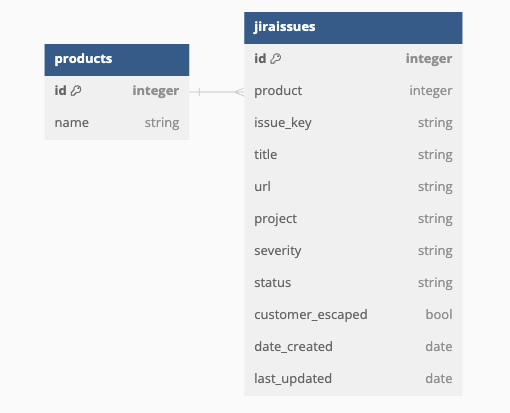
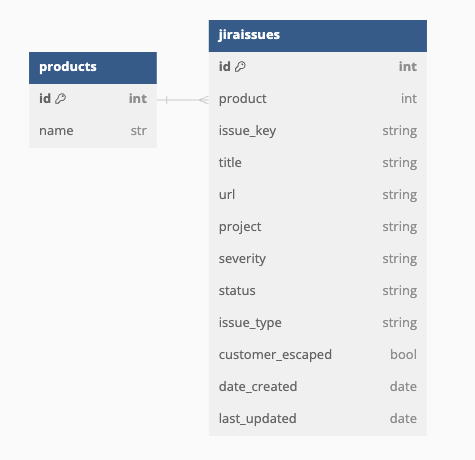
Add issue_type column to db and don't force only bugs to be added to db (#78)

diff --git a/qe_metrics/utils/issue_utils.py b/qe_metrics/utils/issue_utils.py
@@ -60,6 +60,7 @@ def update_existing_issue(existing_issue: JiraIssuesEntity, new_issue_data: Issu
         ("title", new_issue_data.fields.summary.strip()),
         ("severity", severity),
         ("status", new_issue_data.fields.status.name),
+        ("issue_type", new_issue_data.fields.issuetype.name.lower()),
         ("customer_escaped", new_issue_data.is_customer_escaped),
         ("last_updated", format_issue_date(new_issue_data.fields.updated)),
     ]
@@ -90,7 +91,6 @@ def create_update_issues(
     Returns:
         List["JiraIssuesEntity"]: A list of JiraIssuesEntity objects
     """
-    issues = [_issue for _issue in issues if _issue.fields.issuetype.name.lower() == "bug"]
     for issue in issues:
         if existing_issue := JiraIssuesEntity.get(issue_key=issue.key, product=product):
             update_existing_issue(existing_issue=existing_issue, new_issue_data=issue, severity=severity)
@@ -103,6 +103,7 @@ def create_update_issues(
                 project=issue.fields.project.key,
                 severity=severity,
                 status=issue.fields.status.name,
+                issue_type=issue.fields.issuetype.name.lower(),
                 customer_escaped=issue.is_customer_escaped,
                 date_created=format_issue_date(issue.fields.created),
                 last_updated=format_issue_date(issue.fields.updated),

diff --git a/tests/unittests/utils/test_issue_utils.py b/tests/unittests/utils/test_issue_utils.py
@@ -28,6 +28,7 @@ from qe_metrics.utils.issue_utils import (
                     "project": "TEST",
                     "severity": "blocker",
                     "status": "To Do",
+                    "issue_type": "bug",
                     "customer_escaped": True,
                     "date_created": "2024-12-29",
                     "last_updated": "2024-12-30",
@@ -79,6 +80,7 @@ def test_database_update_existing_issue(product, raw_jira_issues, jira_issues):
                     "project": "TEST",
                     "severity": "blocker",
                     "status": "In Progress",
+                    "issue_type": "bug",
                     "customer_escaped": False,
                     "date_created": "2024-12-30",
                     "last_updated": "2024-12-31",
@@ -90,6 +92,7 @@ def test_database_update_existing_issue(product, raw_jira_issues, jira_issues):
                     "project": "TEST",
                     "severity": "blocker",
                     "status": "In Progress",
+                    "issue_type": "bug",
                     "customer_escaped": False,
                     "date_created": "2024-12-30",
                     "last_updated": "2024-12-31",

diff --git a/tests/unittests/libs/test_database_mapping.py b/tests/unittests/libs/test_database_mapping.py
@@ -15,6 +15,7 @@ from qe_metrics.libs.database_mapping import JiraIssuesEntity, ProductsEntity
                     "project": "TEST",
                     "severity": "blocker",
                     "status": "Open",
+                    "issue_type": "bug",
                     "customer_escaped": False,
                     "date_created": "2024-01-01",
                     "last_updated": "2024-01-01",

diff --git a/qe_metrics/libs/database_mapping.py b/qe_metrics/libs/database_mapping.py
@@ -20,6 +20,7 @@ class JiraIssuesEntity(DB_OBJECT.Entity):
     project = orm.Required(str)
     severity = orm.Required(str)
     status = orm.Required(str)
+    issue_type = orm.Required(str)
     customer_escaped = orm.Required(bool)
     date_created = orm.Required(date)
     last_updated = orm.Required(date)
